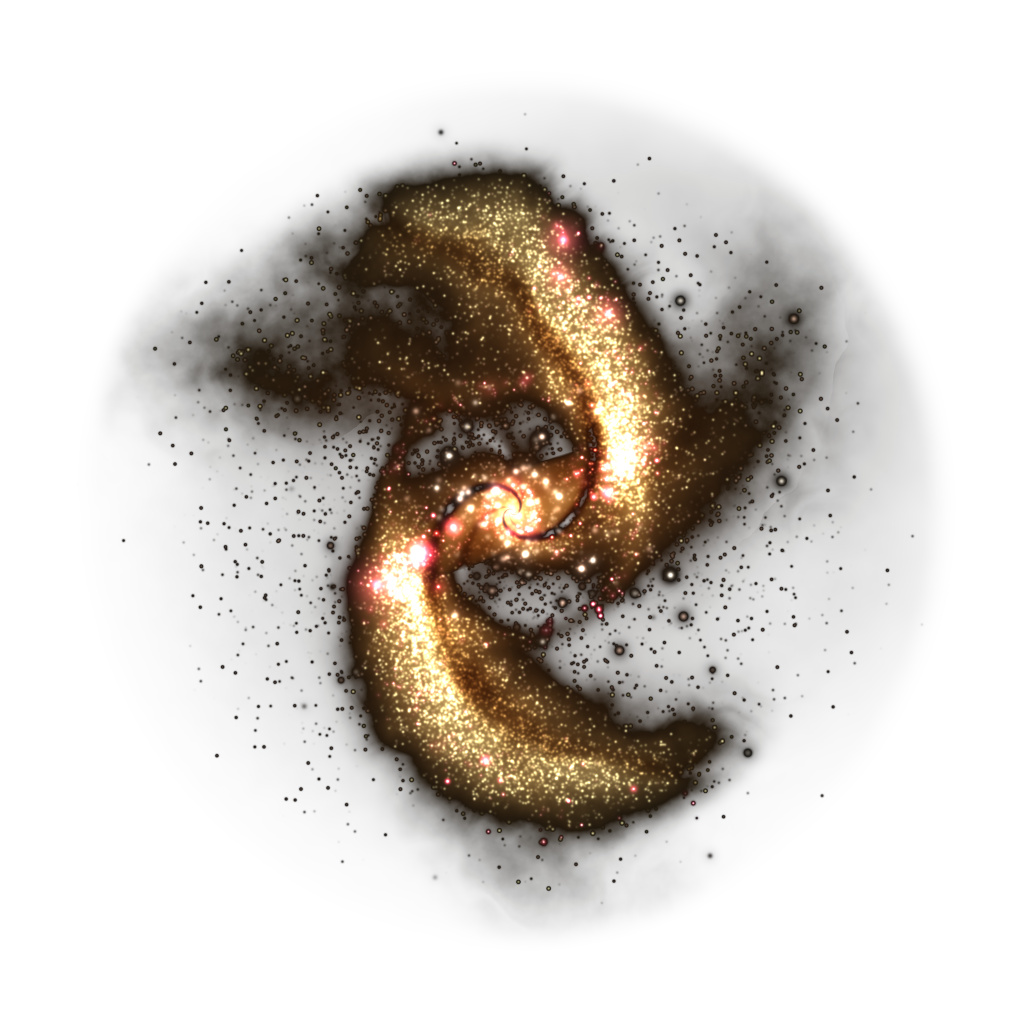
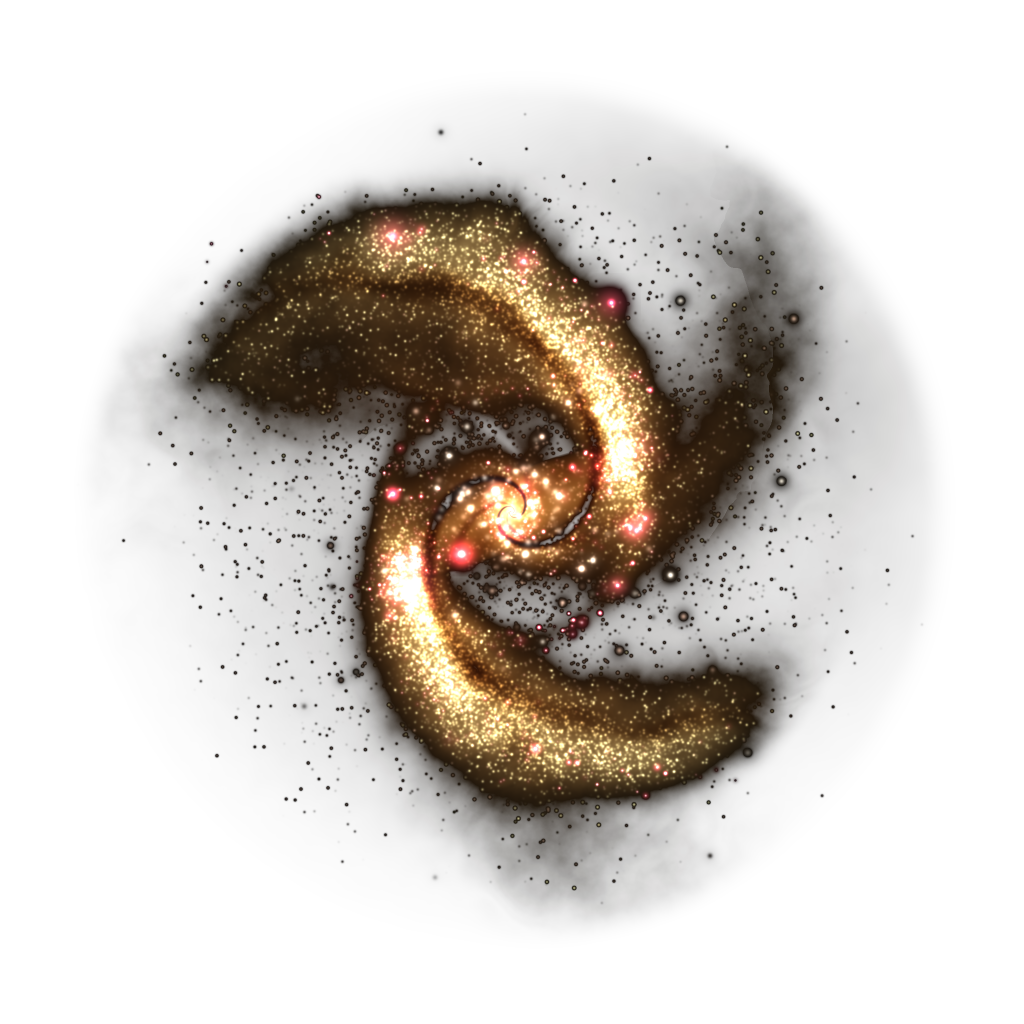
Tighten galaxy_gpu's spiral so it reads as two arms, not a crescent
At pitch 19.5 degrees the gpu disc's arms completed barely half a turn
and the whole figure leaned like a crescent. Dropping the pitch to 16
lets both arms wrap past a half turn around the bar, so it reads as a
clear two-armed spiral. The one-sided tidal term is left alone - it now
reads as realism rather than as a tilt of the whole disc. Only this one
disc changes; two independent re-bakes are byte-identical.

Changed region(s): [[0.125, 0.125, 0.8125, 0.875]]

diff --git a/blender/galaxy_assets.py b/blender/galaxy_assets.py
@@ -3113,9 +3113,11 @@ DISCS = [
         "palette": "cyan", "pitch": 15.0, "arms": 2, "lopsided": 0.13,
         "bar": 1.00, "bar_pa": 0.62, "bar_len": 0.34, "ring": 0.0,
         "tidal": 0.26, "tidal_pa": 2.1, "arm_mix": (1.00, 0.80), "arm_end": (1.00, 0.88)}),
-    # SB(r)b: shorter bar inside a bright inner ring, more open arms, nearly symmetric
+    # SB(r)b: shorter bar inside a bright inner ring, nearly symmetric. Pitch was 19.5:
+    # at that opening the two arms barely completed a half turn and the plate read as
+    # a crescent at full size; 16 wraps them far enough to read as a two-armed S.
     ("galaxy_gpu.png", 771, {
-        "palette": "amber", "pitch": 19.5, "arms": 2, "lopsided": 0.10,
+        "palette": "amber", "pitch": 16.0, "arms": 2, "lopsided": 0.10,
         "bar": 0.85, "bar_pa": -0.45, "bar_len": 0.29, "ring": 0.18,
         "tidal": 0.12, "tidal_pa": -0.6, "arm_mix": (1.00, 0.86), "arm_end": (1.00, 0.94)}),
     # SABa, interacting: weak bar, tightly wound, strongly tidally distorted, one arm
